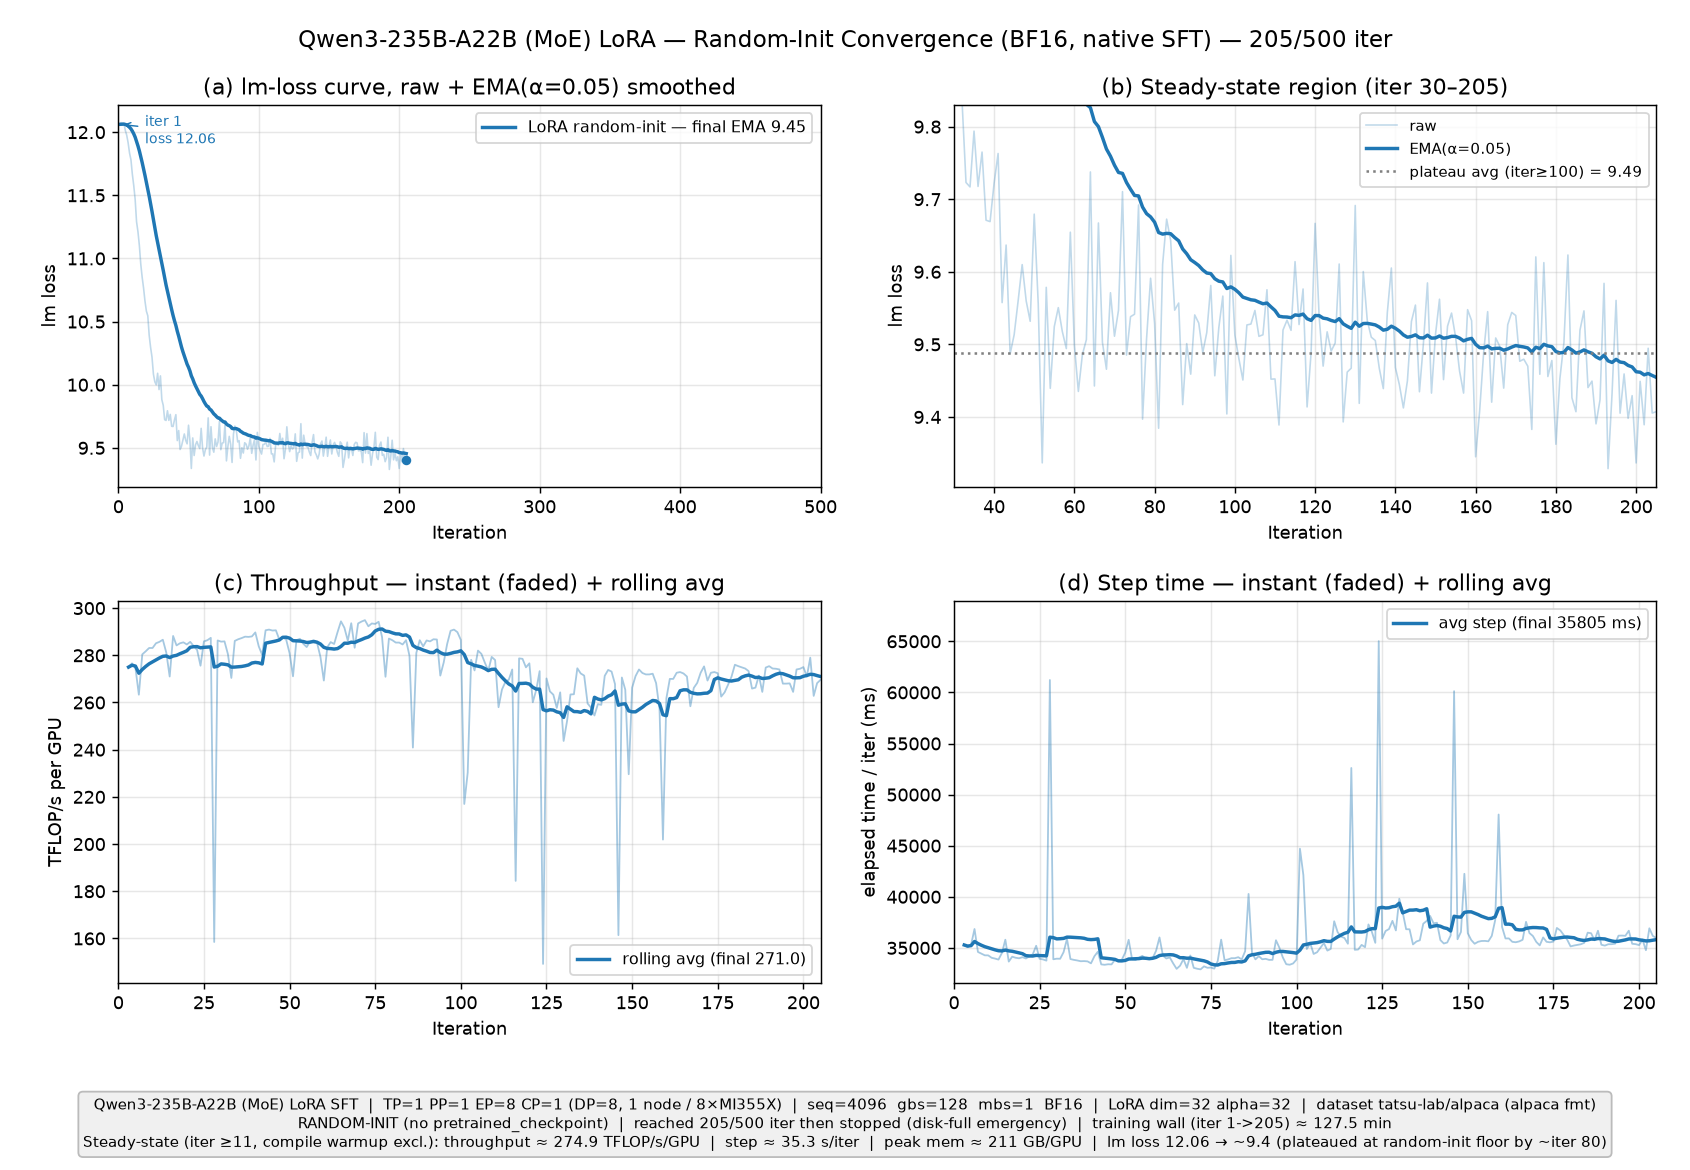
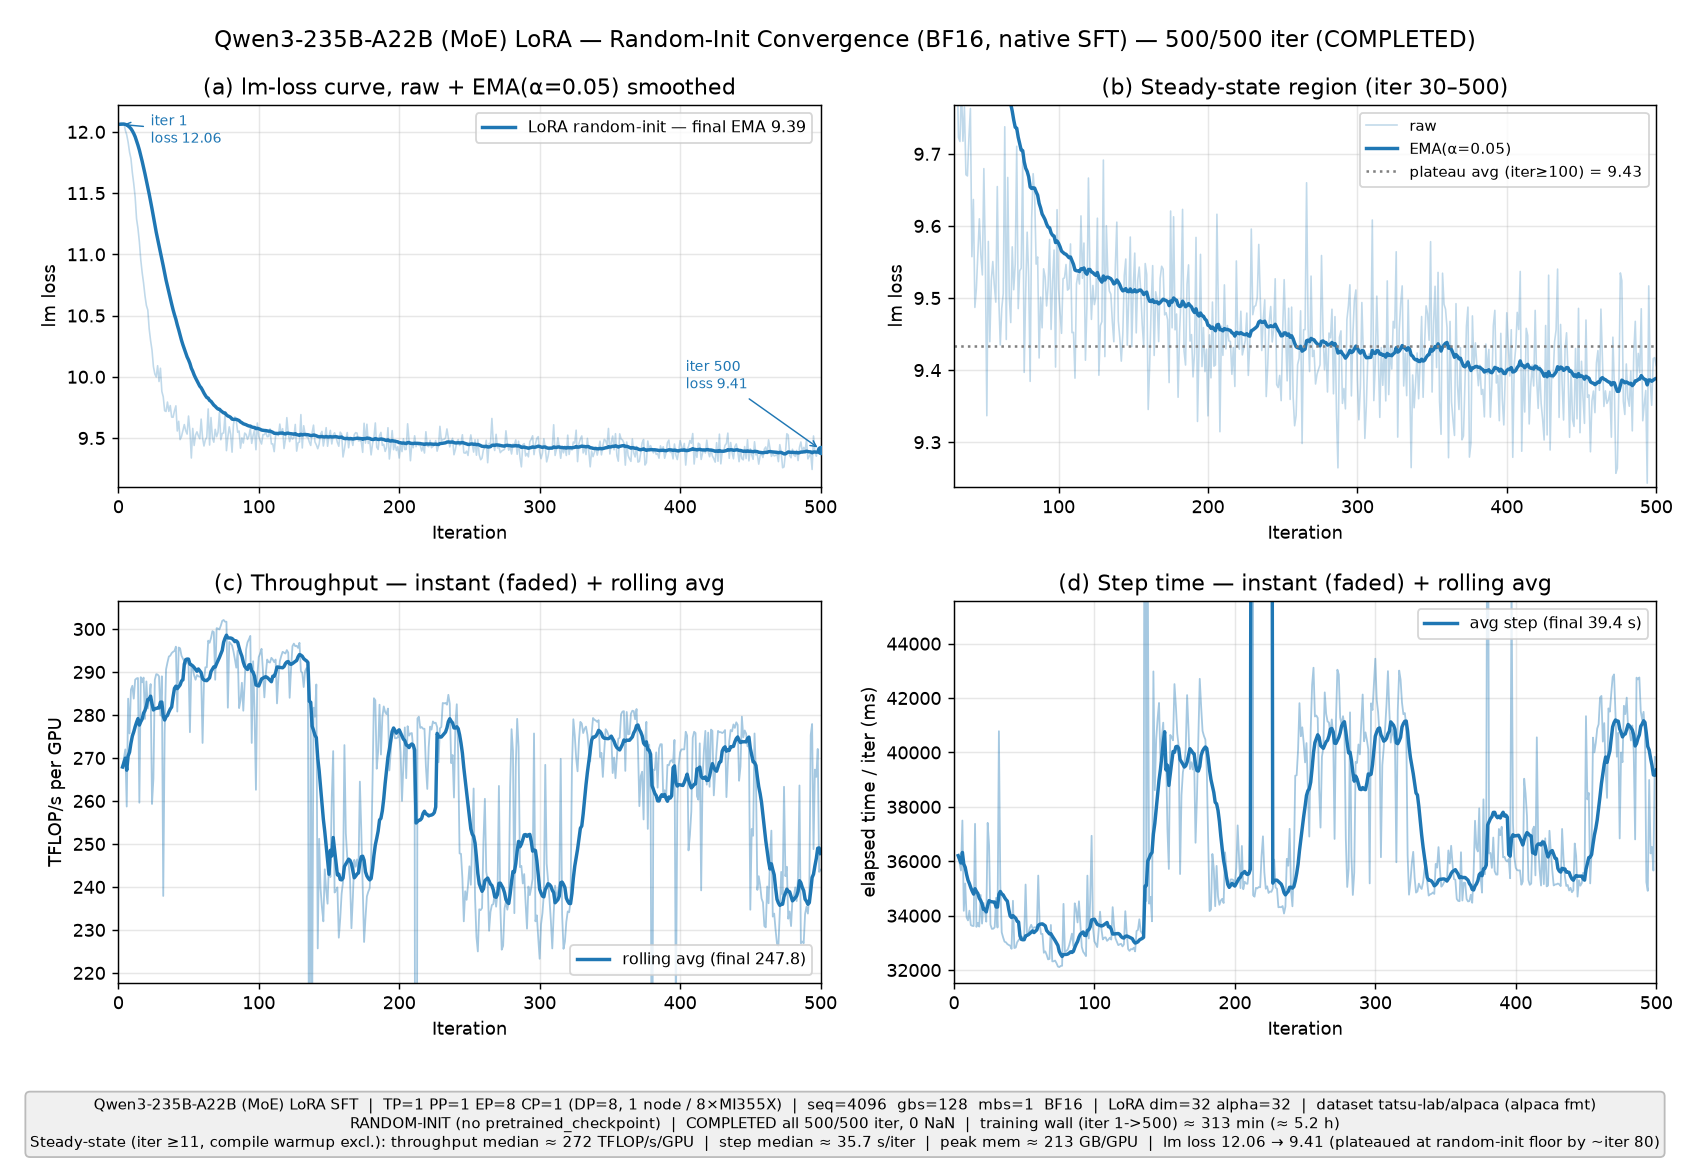
Update results: full 500-step convergence figure + metrics summary table

diff --git a/README.md b/README.md
@@ -14,7 +14,7 @@
 4. [Step 3 — 提交脚本（完整内容）](#4-step-3--提交脚本完整内容)
 5. [Step 4 — 提交作业](#5-step-4--提交作业)
 6. [Step 5 — 查看进度与读指标](#6-step-5--查看进度与读指标)
-7. [预期结果](#7-预期结果)
+7. [实验结果](#7-实验结果)
 8. [附录](#附录)
 
 ---
@@ -347,11 +347,32 @@ iteration        5/      20 | elapsed time per iteration (ms): 35000.0 | through
 
 ---
 
-## 7. 预期结果
+## 7. 实验结果
 
-把 `train_iters` 调大（如 500）后，随机初始化 LoRA 的 loss 会从 ~12 下降并在 ~9.4 附近走平（随机基座 + 低秩 LoRA 的固有上限），吞吐稳定在 ~275 TFLOP/s/GPU：
+把 `train_iters` 调大到 **500** 跑完整收敛，本次作业已**完整跑完 500/500 步**（全程 **0 NaN**，训练墙钟约 **5.2 小时**）。随机初始化 LoRA 的 `lm loss` 从第 1 步的 **12.06** 快速下降，约在**第 60–80 步**进入 **~9.4** 的平台（随机基座 + 低秩 LoRA 能达到的固有下限，之后不再明显下降），最终第 500 步收在 **9.41**；稳态单卡吞吐中位数约 **272 TFLOP/s/GPU**、单步约 **35.7 s**、每卡显存约 **206 GB / 288 GB**：
 
 ![Qwen3-235B-A22B LoRA 收敛与吞吐总结](qwen3_235b_lora_convergence_summary.png)
+
+> 图中 (a) 为完整 500 步 loss 曲线（淡线原始值 + 粗线 EMA 平滑），(b) 为稳态区放大（EMA 缓降至 ~9.4 平台），(c)/(d) 分别为单卡吞吐与单步耗时（淡线瞬时值、粗线 15 步滑动平均）。第 212 步有一次孤立的 I/O 卡顿（单步 ~486 s、吞吐骤降），已落在 (c)/(d) 纵轴范围之外，不影响整体判断。
+
+### 结果指标汇总表
+
+下表为本次 **Qwen3-235B-A22B 单机 LoRA SFT（随机初始化）** 跑完 500 步后的实测指标，全部取自作业日志 `logs/qwen3_235b_lora_1node_converge2.18718.out`（稳态口径为 iter ≥ 11，剔除前若干步编译预热）：
+
+| 指标 | 数值 |
+|---|---|
+| 模型 / 结构 | Qwen3-235B-A22B（MoE，2350 亿总参 / 220 亿激活，128 专家） |
+| 并行度 | TP=1 / PP=1 / EP=8 / CP=1（8×MI355X，DP=8，单节点） |
+| 精度 | BF16 混合精度 |
+| LoRA | dim=32 / alpha=32、dropout=0，4 个 target module（`linear_qkv` / `linear_proj` / `linear_fc1` / `linear_fc2`），约 0.3% 可训练参数 |
+| 数据集 | `tatsu-lab/alpaca`（alpaca 格式），seq_length=4096，global_batch_size=128，micro_batch_size=1 |
+| 训练步数 | **500 / 500**（完整跑完） |
+| 稳态吞吐 | 中位数 **~272 TFLOP/s/GPU**（均值 ~265，多数步落在 234–293） |
+| 单步耗时 | 中位数 **~35.7 s**（均值 ~37.7 s，多数步落在 33–41 s） |
+| 每卡显存 | rocm 占用 **~206 GB / 288 GB**（~72%），峰值 **~212.6 GB**（~74%） |
+| 起始 → 终点 loss | **12.06 → 9.41**（约第 80 步进入 ~9.4 平台） |
+| NaN 迭代数 | **0** |
+| 训练墙钟 | **~313 min（≈ 5.2 h）**，iter 1→500 |
 
 ---
 